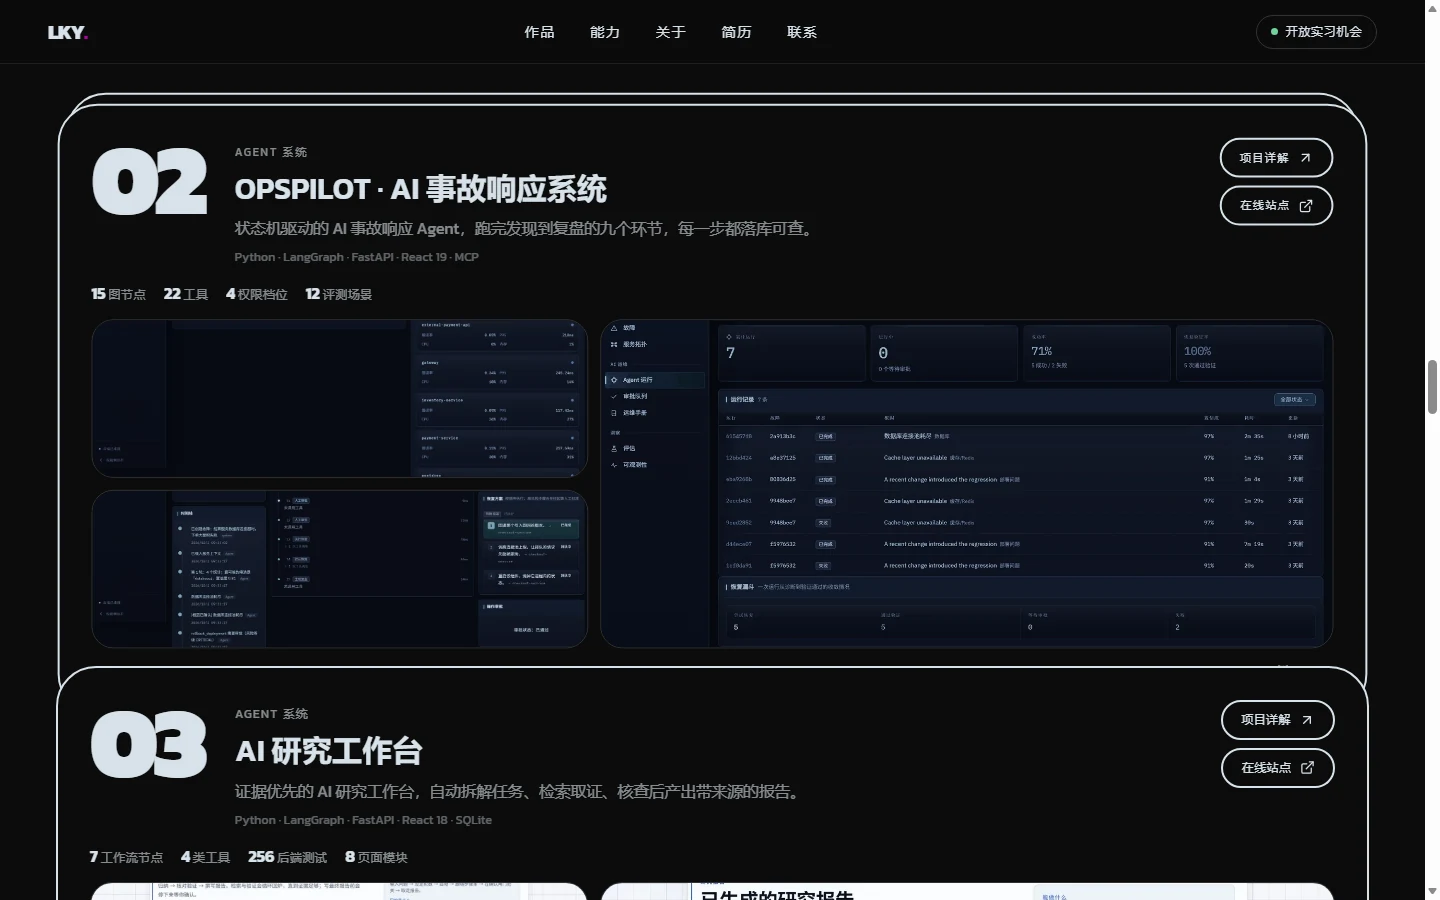
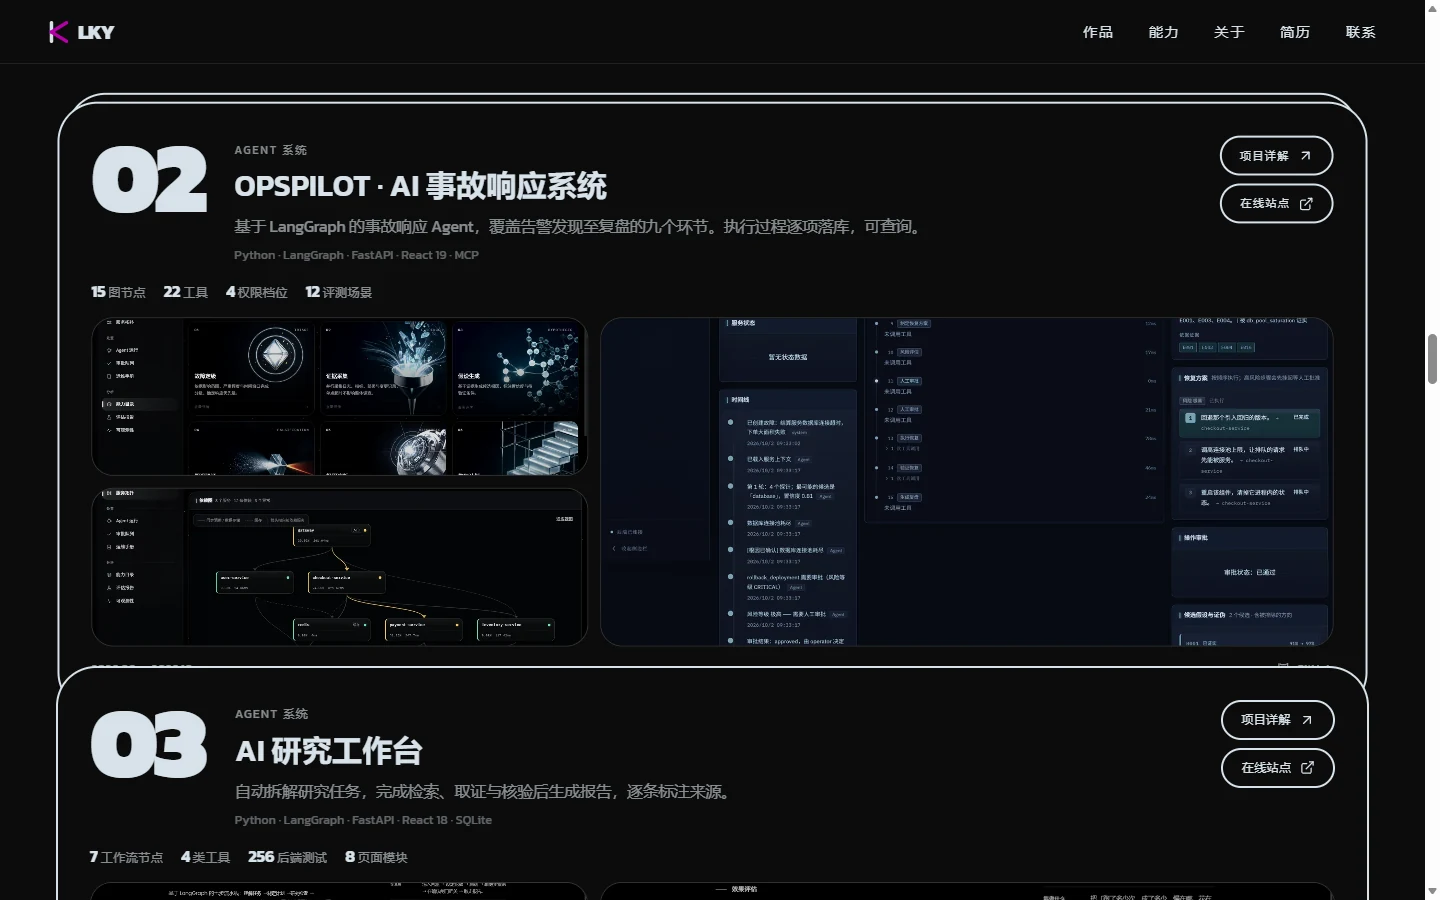
统一站内文案写法，去掉详情页重复小字

diff --git a/src/data.js b/src/data.js
@@ -66,7 +66,7 @@ export const profile = {
   name: '卢柯宇',
   initials: 'LKY',
   welcome: '欢迎来到我的个人网站',
-  tagline: '独立完成设计、开发与上线，交付可运行的系统。',
+  tagline: '独立完成系统设计与实现，交付可运行的线上版本。',
   email: 'luky2124@mails.jlu.edu.cn',
   phone: '15144167675',
   city: '吉林 长春',
@@ -428,7 +428,7 @@ export const campus = {
   role: '独立开发 · AI 辅助工程',
   stack: 'PHP · MySQL · SSE · Docker',
   headline: '在线运行的校园社交平台。',
-  lede: '实名认证、实时私信、敏感词过滤与运营后台均已实现，当前在线运行。',
+  lede: '实名认证、实时私信、敏感词过滤与运营后台均已实现，系统在线运行。',
   cover: asset('/media/campus/campus-cover-v2.webp'),
 
   metrics: [
@@ -673,12 +673,12 @@ export const projects = [
     period: '2026.09 — 2026.10',
     image: asset('/media/project-opspilot-v2.webp'),
     tag: 'LangGraph · FastAPI · React',
-    description: '状态机驱动的 AI 事故响应 Agent，覆盖从发现到复盘的九个环节，每一步均落库，可供查询。',
+    description: '基于 LangGraph 的事故响应 Agent，覆盖告警发现至复盘的九个环节。执行过程逐项落库，可查询。',
     role: '独立开发 · 架构与实现',
     stack: 'Python · LangGraph · FastAPI · React 19 · MCP',
     site: 'https://opspilot-v2.app.workbuddy.host/?sharecode=RTXXSZUEYF',
     github: 'https://github.com/2676136489-png/OpsPilot',
-    lede: '将值班工程师的告警处理流程交由状态机驱动的 Agent 执行，每一步均落库：调用的工具、获取的证据、提出并否决的假设、诊断置信度与恢复动作的执行结果。诊断允许输出 UNKNOWN，验证失败按失败记录。',
+    lede: '告警处理流程由状态机驱动的 Agent 执行。工具调用、证据获取、假设生成与否决、诊断置信度及恢复动作结果均落库。诊断可输出 UNKNOWN，验证未通过时记为失败。',
     metrics: [
       { value: '15', label: '图节点' },
       { value: '22', label: '工具' },
@@ -687,7 +687,7 @@ export const projects = [
       { value: '135', label: '后端测试' },
       { value: '9', label: '前端页面' },
     ],
-    note: '支持在线注入故障并完整演示处理流程，站内附 12 个场景的评测报告。',
+    note: '支持在线注入故障与完整流程演示，附 12 个场景的评测报告。',
     chapters: [
       {
         id: 'problem',
@@ -918,12 +918,12 @@ export const projects = [
     period: '2026.09 — 2026.10',
     image: asset('/media/project-research-v2.webp'),
     tag: 'LangGraph · FastAPI · RAG',
-    description: '自动拆解研究任务、检索取证并核查，产出逐条标注来源的报告。',
+    description: '自动拆解研究任务，完成检索、取证与核验后生成报告，逐条标注来源。',
     role: '独立开发 · 架构与实现',
     stack: 'Python · LangGraph · FastAPI · React 18 · SQLite',
     site: 'https://ebed98754f5b4e4abafe591d754aff06.app.workbuddy.host/?sharecode=JJ4JF7TBGM',
     github: 'https://github.com/2676136489-png/Personal-agent-development-flow',
-    lede: '输入研究任务后，工作流依次完成理解、规划、工具调用、证据分析与验证，在生成报告前中断等待人工确认，最终产出逐条标注来源的报告。确认环节与证据不足时的重新检索均写入工作流，不依赖调用方自行保证。',
+    lede: '研究任务依次经过理解、规划、工具调用、证据分析与验证。报告生成前设置人工确认中断，证据不足时回流检索。确认与检索逻辑纳入工作流，不依赖调用方保证。',
     metrics: [
       { value: '7', label: '工作流节点' },
       { value: '4', label: '类工具' },
@@ -932,7 +932,7 @@ export const projects = [
       { value: '4', label: '防护机制' },
       { value: '7 步', label: '研究流水线' },
     ],
-    note: '线上已可使用，模型接入智谱 GLM-4-Flash，检索接入 Tavily，无需配置环境。',
+    note: '模型接入智谱 GLM-4-Flash，检索接入 Tavily，线上无需额外配置。',
     chapters: [
       {
         id: 'problem',
@@ -1126,19 +1126,19 @@ export const projects = [
     period: '2026.11',
     image: asset('/media/project-archive.webp'),
     tag: '静态页面 · 21 个独立场景',
-    description: '21 个独立页面整合为统一索引，按整页、区块、动效、加载四类筛选。',
+    description: '21 个独立页面纳入统一索引，按整页、区块、动效、加载四类组织。',
     role: '独立开发',
     stack: 'HTML · CSS · 原生 JS · 静态部署',
     site: 'https://wbapp-4ytxtkm2qyyzpnnfhiiqfg.app.workbuddy.host/?sharecode=GHCD2BBZPY',
     github: 'https://github.com/2676136489-png/web-design-archive',
-    lede: '索引页将 21 个页面划分为整页、区块、动效、加载四类。三维作品集、玻璃拟态首屏、文字路径与粒子球各自独立成页，各页具备独立的排版与动效。',
+    lede: '索引按整页、区块、动效、加载四类组织 21 个页面。三维作品集、玻璃拟态首屏、文字路径与粒子球各为独立页面。各页采用独立的排版与动效。',
     metrics: [
       { value: '21', label: '独立页面' },
       { value: '16', label: '设计规格' },
       { value: '4', label: '页面分类' },
       { value: '5', label: '文字动效' },
     ],
-    note: '全部页面均为静态 HTML，可直接打开 index.html 浏览。',
+    note: '页面均为静态 HTML，可直接打开 index.html 浏览。',
   },
   {
     id: 'lumora',
@@ -1151,19 +1151,19 @@ export const projects = [
     period: '2026.11',
     image: asset('/media/project-lumora.webp'),
     tag: '区块库 · 主题与 Wiki 演示',
-    description: '197 个可复用区块按 22 个分类整理，附源码、提示词与一套 Wiki 演示。',
+    description: '197 个可复用区块按 22 类整理，附源码、提示词与 Wiki 演示模板。',
     role: '独立开发',
     stack: 'HTML · CSS · 原生 JS · 静态部署',
     site: 'https://wbapp-v2ojc8qetmpj74ypnddj2s.app.workbuddy.host/?sharecode=32KDFEZKHH',
     github: 'https://github.com/2676136489-png/Lumora',
-    lede: '区块按页面区块、界面控件、风格页面三类划分，共 197 个。每个区块均可直接复制源码与提示词；外层提供四套主题，并附一套 Wiki 模板，演示整套区块替换内容后的效果。',
+    lede: '区块按页面区块、界面控件、风格页面三类划分，共 197 个。每个区块可复制源码与提示词。外层提供四套主题及一套 Wiki 模板，用于验证区块替换内容后的效果。',
     metrics: [
       { value: '197', label: '可复用区块' },
       { value: '22', label: '分类' },
       { value: '103', label: '界面控件' },
       { value: '4', label: '主题' },
     ],
-    note: '资源全部本地化，另附 Wiki 模板演示。',
+    note: '资源全部本地化，附 Wiki 模板演示。',
   },
   {
     id: 'checkin',
@@ -1176,12 +1176,12 @@ export const projects = [
     period: '2026.09',
     image: asset('/media/project-checkin-v2.webp'),
     tag: '单文件 · React 工程化版',
-    description: '以打卡驱动目标推进的个人工作台，核心算法按近 7 天速度估算剩余天数。',
+    description: '按近 7 天有效进度估算剩余天数的目标管理台。',
     role: '独立开发',
     stack: '单文件 HTML · React 18 · TypeScript · Tailwind',
     site: 'https://study-goal-console-59328.app.workbuddy.host/?sharecode=PCKEDGKLDQ',
     github: 'https://github.com/2676136489-png/Check-in-activity',
-    lede: '多数打卡工具仅统计连续天数，未回答「按当前速度还需多久完成」这一问题。页面核心算法为：取最近 7 天，按休息日规则剔除无效天，计算日均进度，再以剩余量除以日均速度。',
+    lede: '进度速度取最近 7 天数据，按休息日规则剔除无效天后计算日均进度。剩余天数由剩余量除以日均进度得出。',
     metrics: [
       { value: '2338', label: '行单文件版' },
       { value: '51', label: '算法单测' },
@@ -1190,7 +1190,7 @@ export const projects = [
       { value: '4', label: '状态判定' },
       { value: '3', label: '张数据表' },
     ],
-    note: '仓库包含两套功能一致的实现：单文件版用于日常使用，工程化版可直接启动。',
+    note: '仓库含两套功能一致的实现：单文件版用于日常使用，工程化版可直接启动。',
   },
   {
     id: 'gomoku',
@@ -1203,11 +1203,11 @@ export const projects = [
     period: '2026.04 — 2026.11',
     image: asset('/media/project-gomoku-v2.webp'),
     tag: 'Python / C++ · 博弈搜索与可学习评估',
-    description: '15×15 国际连珠对弈平台：禁手判定、alpha-beta 搜索、可学习贪心与 Agent 决策层，八个页面已上线，可在线对弈。',
+    description: '15×15 国际连珠对弈平台，实现禁手判定、alpha-beta 搜索、可学习贪心与 Agent 决策层。八个页面已上线，支持在线对弈。',
     role: '独立开发',
     stack: 'Python · FastAPI · C++17 · SQLite · React 19 · Docker',
     site: 'https://gomoku-match.app.workbuddy.host/?sharecode=MJAKMJUVAA',
-    lede: '项目起点为 Botzone 的单文件 C++ Bot，以棋形模板打分选点。后续重写为 Python 引擎，并扩展为完整对弈平台：大厅、对弈、复盘、教程、代码工坊、竞技场与贪心学习，每个选点附棋形解释。',
+    lede: '项目起点为 Botzone 单文件 C++ Bot，采用棋形模板打分选点。引擎以 Python 重写后扩展为对弈平台。平台包含大厅、对弈、复盘、教程、代码工坊、竞技场与贪心学习。每个选点附棋形解释。',
     metrics: [
       { value: '453', label: '后端测试' },
       { value: '181', label: '浏览器走查' },
@@ -1488,11 +1488,11 @@ export const projects = [
     period: '2024.09 — 2024.12',
     image: asset('/media/project-station-v2.webp'),
     tag: 'C11 · 零依赖',
-    description: '双角色（管理员 / 顾客）校园快递站系统，按 UI、认证、业务三层划分实现。',
+    description: '管理员与顾客双角色校园快递站系统，按界面、认证、业务三层实现。',
     role: '独立完成',
     stack: 'C11 · 控制台可视化',
     site: 'https://wbapp-2l4ctx9mw2v4jrjpylnkws.app.workbuddy.host/?sharecode=KLVZBRJP3O',
-    lede: '纯 C 实现的快递驿站系统，仅依赖标准库与控制台 API。业务规则、状态流转与可视化界面分层实现，命令行下保持清晰的信息层级。',
+    lede: '系统以 C 语言实现，仅依赖标准库与控制台 API。业务规则、状态流转与界面分层组织，命令行下维持清晰的信息层级。',
     metrics: [
       { value: '0', label: '第三方依赖' },
       { value: '7', label: '功能模块分层' },
@@ -1646,10 +1646,10 @@ export const projects = [
     period: '2026.07',
     image: asset('/media/project-wiki-v2.webp'),
     tag: 'HTML · CSS · JavaScript',
-    description: '面向 iGEM 团队的多页面 Wiki 模板，静态优先架构，附带可复用的界面与交互插件。',
+    description: '面向 iGEM 团队的多页面 Wiki 模板，采用静态优先架构，附可复用界面与交互插件。',
     role: '独立开发',
     stack: '静态 HTML · 可选 PHP include',
-    lede: '面向 iGEM 团队的多页面 Wiki 模板。19 个页面共用一套设计系统，9 个交互插件均提供独立示例页；无需构建，可直接在浏览器中打开。',
+    lede: '面向 iGEM 团队的多页面 Wiki 模板。19 个页面共用一套设计系统，9 个交互插件均提供独立示例页。无需构建，可直接在浏览器中打开。',
     metrics: [
       { value: '19', label: '页面' },
       { value: '9', label: '可复用插件' },
@@ -1778,10 +1778,10 @@ export const projects = [
     period: '2026.07 — 2026.11',
     image: asset('/media/project-dashboard-v2.webp'),
     tag: 'React 19 · Vite 6',
-    description: '纯黑背景 3D 视觉作品集，十个作品共用一份数据与一套详情渲染，同一份源码发布至两个域名。',
+    description: '黑底 3D 视觉作品集，十个作品共用一份数据与一套详情渲染，源码发布至两个域名。',
     role: '独立开发 · AI 辅助工程',
     stack: 'React 19 · Vite 6 · 手写 CSS',
-    lede: '视觉已整体重做，保留可长期维护的结构：内容同源，详情共用一套渲染，部署分两条链路。',
+    lede: '站点采用内容同源、详情共用渲染与双链路部署的结构。视觉层已整体重做，数据与渲染逻辑保持单一来源。',
     metrics: [
       { value: '10', label: '个收录作品' },
       { value: '66', label: '张 WebP 素材' },
@@ -1974,22 +1974,22 @@ fillCategories(projects);
 export const capabilities = [
   {
     title: 'AI 原生开发',
-    text: '大模型参与需求拆解、架构设计与代码迭代，覆盖从设计到交付的完整链路。',
+    text: '大模型参与需求拆解、架构设计与代码迭代，覆盖设计至交付的流程。',
     tags: ['LLM / RAG', 'Agent / MCP', 'Prompt Engineering'],
   },
   {
     title: '工程与算法',
-    text: 'C/C++ 算法与数据结构为基础，延伸至 Python 服务端与 PHP / MySQL 后端。',
+    text: '以 C/C++ 算法与数据结构为基础，延伸至 Python 服务端与 PHP / MySQL 后端。',
     tags: ['C / C++', 'FastAPI · Docker', 'PHP · MySQL'],
   },
   {
     title: '前端与界面',
-    text: 'TypeScript、React 与 Vite 构建界面，负责信息层级与操作路径设计。',
+    text: '使用 TypeScript、React 与 Vite 构建界面，设计信息层级与操作路径。',
     tags: ['React · TypeScript', 'Vite', 'SSE'],
   },
   {
     title: '组织与推进',
-    text: '将模糊需求拆解为可执行任务，明确优先级与验收标准，推动至交付。',
+    text: '将需求拆解为可执行任务，明确优先级与验收标准，推进至交付。',
     tags: ['沟通协调', '任务拆解', '团队协作'],
   },
 ];
@@ -2010,7 +2010,7 @@ export const timeline = [
   {
     year: '2026',
     title: 'OpsPilot · AI 事故响应系统',
-    text: '状态机驱动的 Agent 覆盖从发现到复盘的九个环节，15 个图节点、22 个工具、135 个后端测试；支持在线注入故障并完整演示处理流程。',
+    text: '状态机驱动的 Agent 覆盖告警发现至复盘的九个环节。系统含 15 个图节点、22 个工具与 135 个后端测试。支持在线注入故障并演示完整处理流程。',
   },
   {
     year: '2026',
@@ -2030,17 +2030,17 @@ export const timeline = [
   {
     year: '2026',
     title: '校园圈子',
-    text: '实名社交平台，架构、实现与部署独立完成，线上稳定运行，19 位实名学生。',
+    text: '实名社交平台，架构、实现与部署独立完成，线上运行，19 位实名学生。',
   },
   {
     year: '2026',
     title: '五子棋对弈引擎 Gomoku Match',
-    text: '由单文件 C++ Bot 扩展为完整对弈平台：连珠禁手判定、递归棋形识别、alpha-beta 搜索、棋谱训练的可学习贪心，以及一层仅在候选点中取舍的 Agent；已上线，可在线体验。',
+    text: '由单文件 C++ Bot 扩展为对弈平台，涵盖连珠禁手判定、递归棋形识别与 alpha-beta 搜索。棋谱训练用于可学习贪心与候选点决策 Agent。已上线，支持在线对弈。',
   },
   {
     year: '2026',
     title: '个人作品集',
-    text: '本站本身。同一份构建产物发布至 GitHub Pages 子路径与云托管根路径，两处内容保持一致。',
+    text: '本站采用同一份构建产物，发布至 GitHub Pages 子路径与云托管根路径。两处内容保持一致。',
   },
   {
     year: '2024',

diff --git a/src/v3/site.css b/src/v3/site.css
@@ -500,9 +500,10 @@
 .v3-back:hover { color: var(--v3-ink); }
 .v3-detail-top { display: flex; justify-content: space-between; gap: 16px; align-items: center; }
 .v3-detail-cat { font-size: 0.78rem; letter-spacing: 0.1em; text-transform: uppercase; color: var(--v3-muted); }
-.v3-detail-title { margin-top: 40px; font-size: clamp(2.4rem, 8vw, 7rem); font-weight: 900; line-height: 1; letter-spacing: -0.04em; }
+/* 提高一级选择器权重：`.v3 h1 { margin: 0 }` 会盖掉这里的 margin-top，
+   标题行盒上溢后压住「← 全部作品」，导致返回链接点不动。 */
+.v3-detail .v3-detail-title { margin-top: 40px; font-size: clamp(2.4rem, 8vw, 7rem); font-weight: 900; line-height: 1; letter-spacing: -0.04em; }
 .v3-detail-lede { margin-top: 26px; font-size: clamp(1.05rem, 2vw, 1.5rem); line-height: 1.65; max-width: 800px; }
-.v3-detail-desc { margin-top: 16px; color: var(--v3-muted); line-height: 1.8; max-width: 800px; }
 .v3-detail-meta { display: grid; grid-template-columns: repeat(3, 1fr); gap: 14px; margin-top: 44px; }
 .v3-detail-meta > div { padding: 20px; border: 1px solid var(--v3-line); border-radius: 16px; }
 .v3-detail-meta span { display: block; font-size: 0.74rem; letter-spacing: 0.1em; text-transform: uppercase; color: var(--v3-muted); }

diff --git a/index.html b/index.html
@@ -12,7 +12,7 @@
     <meta property="og:locale" content="zh_CN" />
     <meta property="og:url" content="https://2676136489-png.github.io/personal-design/" />
     <meta property="og:title" content="卢柯宇 | 个人作品集" />
-    <meta property="og:description" content="独立完成设计、开发与上线，交付可运行的系统。" />
+    <meta property="og:description" content="独立完成系统设计与实现，交付可运行的线上版本。" />
     <meta property="og:image" content="https://2676136489-png.github.io/personal-design/media/campus-desktop.webp" />
     <meta property="og:image:width" content="1216" />
     <meta property="og:image:height" content="832" />

diff --git a/src/v3/Detail.jsx b/src/v3/Detail.jsx
@@ -96,7 +96,6 @@ export function ProjectDetail({ slug }) {
       </div>
       <h1 className="v3-detail-title v3-gradient">{project.title}</h1>
       {project.lede && <p className="v3-detail-lede">{project.lede}</p>}
-      <p className="v3-detail-desc">{project.description}</p>
 
       <figure className="v3-detail-cover">
         <img src={project.image} alt={project.title} {...imgAttrs(project.image)} />
